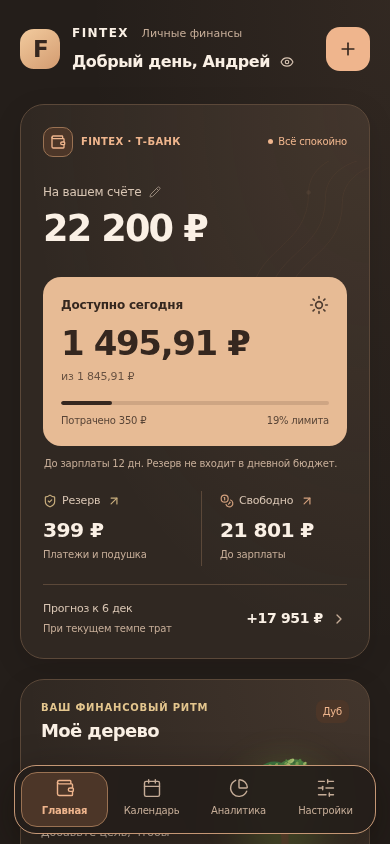
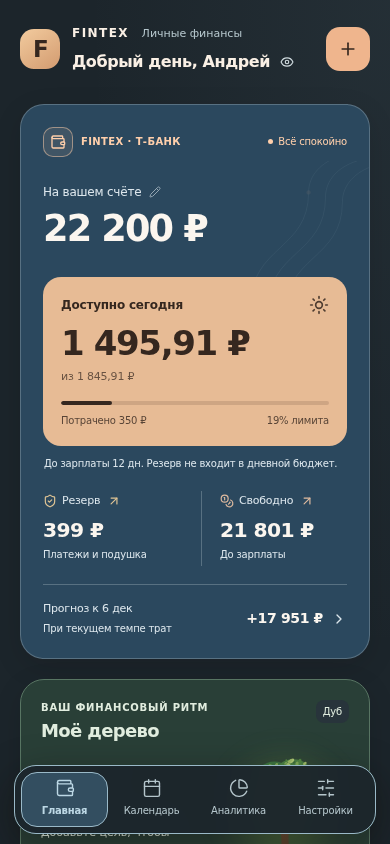
Rework Warm Growth into a balanced blue apricot sage palette

diff --git a/design-system.css b/design-system.css
@@ -865,16 +865,25 @@ body #filely-financial-tree .ft-kicker { font-weight: 700; text-transform: upper
 html[data-visual-style='growth'] {
   --bg-canvas: #faf5ed;
   --surface-1: #fffcf7;
-  --surface-2: #f0e5d7;
-  --surface-raised: #e9dac8;
-  --border-subtle: #dfcebb;
-  --border-active: #a46c45;
+  --surface-2: #e8edf0;
+  --surface-raised: #dce5e9;
+  --border-subtle: #d6dcd8;
+  --border-active: #57768a;
   --text-primary: #332c29;
   --text-secondary: #6f5e53;
   --text-muted: #78675b;
   --accent: #985021;
   --accent-rgb: 152,80,33;
   --accent-2: #985021;
+  --hero-bg: #31526b;
+  --hero-ink: #fbf6ef;
+  --hero-secondary: #dce6ec;
+  --cool: #31526b;
+  --cool-soft: #e1eaf0;
+  --sage-bg: #e5ecdf;
+  --sage-ink: #354c40;
+  --sage-border: #b4c8b5;
+  --progress: #54745d;
   --accent-soft: #f5e2d1;
   --accent-ink: #ffffff;
   --gold: #87601f;
@@ -885,28 +894,37 @@ html[data-visual-style='growth'] {
   --companion-ink: #56351f;
   --tabbar-bg: rgba(250,245,237,.97);
   --surface-wash: linear-gradient(145deg, rgba(233,176,137,.1), transparent 70%);
-  --hero-wash: radial-gradient(ellipse at 100% 0%, rgba(233,176,137,.22), transparent 70%);
-  --canvas-wash: radial-gradient(ellipse at 100% 0%, rgba(233,176,137,.12), transparent 55%);
+  --hero-wash: none;
+  --canvas-wash: radial-gradient(ellipse at 100% 0%, rgba(132,163,179,.13), transparent 55%);
   --budget-bg: #f2d7bd;
   --budget-ink: #493326;
-  --budget-empty-bg: #f0e5d7;
+  --budget-empty-bg: #e1eaf0;
   --number-ink: #332c29;
   --shadow-card: 0 8px 28px rgba(79,49,29,.04);
   --shadow-float: 0 12px 40px rgba(79,49,29,.14);
 }
 html.dark[data-visual-style='growth'] {
-  --bg-canvas: #241e1a;
-  --surface-1: #302822;
-  --surface-2: #3c3129;
-  --surface-raised: #493b31;
-  --border-subtle: #5b4839;
-  --border-active: #c59775;
+  --bg-canvas: #1c252b;
+  --surface-1: #28343b;
+  --surface-2: #32424b;
+  --surface-raised: #3d515b;
+  --border-subtle: #4b6068;
+  --border-active: #9ab9c8;
   --text-primary: #faf0e5;
-  --text-secondary: #d8c5b3;
-  --text-muted: #c6ad98;
+  --text-secondary: #d1dce0;
+  --text-muted: #b5c6cc;
   --accent: #efb58d;
   --accent-rgb: 239,181,141;
   --accent-2: #efb58d;
+  --hero-bg: #2b485e;
+  --hero-ink: #fbf6ef;
+  --hero-secondary: #dce6ec;
+  --cool: #bdd8e5;
+  --cool-soft: #334e60;
+  --sage-bg: #293f37;
+  --sage-ink: #e1eddf;
+  --sage-border: #587563;
+  --progress: #abc6a9;
   --accent-soft: #4c3628;
   --accent-ink: #35271f;
   --gold: #e4c68e;
@@ -915,33 +933,61 @@ html.dark[data-visual-style='growth'] {
   --companion-soft: #4c3628;
   --companion-border: #9a7253;
   --companion-ink: #35271f;
-  --tabbar-bg: rgba(36,30,26,.97);
+  --tabbar-bg: rgba(28,37,43,.97);
   --surface-wash: linear-gradient(145deg, rgba(233,176,137,.04), transparent 70%);
-  --hero-wash: radial-gradient(ellipse at 100% 0%, rgba(233,176,137,.1), transparent 70%);
-  --canvas-wash: radial-gradient(ellipse at 100% 0%, rgba(233,176,137,.07), transparent 55%);
+  --hero-wash: none;
+  --canvas-wash: radial-gradient(ellipse at 100% 0%, rgba(132,163,179,.08), transparent 55%);
   --budget-bg: #e7bb95;
   --budget-ink: #35271f;
-  --budget-empty-bg: #3c3129;
+  --budget-empty-bg: #e1eaf0;
   --number-ink: #faf0e5;
   --shadow-card: 0 8px 28px rgba(16,10,6,.12);
   --shadow-float: 0 12px 40px rgba(16,10,6,.38);
 }
+/* Independent colour roles, not a tint applied to the entire interface. */
+html[data-visual-style='growth'] body #hero-balance-card {
+  background: var(--hero-bg);
+  --text-primary: var(--hero-ink);
+  --number-ink: var(--hero-ink);
+  --text-secondary: var(--hero-secondary);
+  --text-muted: var(--hero-secondary);
+  --border-subtle: rgba(220,230,236,.26);
+  --accent: #ffcfab;
+  --companion: #ffcfab;
+  --companion-soft: rgba(255,207,171,.1);
+  --companion-border: rgba(255,207,171,.5);
+  --gold: #ffda9e;
+  --danger: #ffb4ad;
+}
+html[data-visual-style='growth'] body #filely-financial-tree {
+  background: var(--sage-bg);
+  border-color: var(--sage-border);
+  --text-primary: var(--sage-ink);
+  --text-secondary: var(--sage-ink);
+  --border-subtle: var(--sage-border);
+  --gold: var(--sage-ink);
+}
+html[data-visual-style='growth'] body #filely-financial-tree .ft-stage { background: var(--surface-1); color: var(--sage-ink); }
+html[data-visual-style='growth'] body #filely-financial-tree .ft-bar > span { background: var(--progress); }
+html[data-visual-style='growth'] body #filely-financial-tree .ft-bar { background: var(--sage-border); }
+html[data-visual-style='growth'] body .section-icon:not(.companion-icon) { background: var(--cool-soft); color: var(--cool); }
+html[data-visual-style='growth'] body .work-header { background: var(--cool-soft); }
+html[data-visual-style='growth'] body .ftx-ap-section-title { color: var(--cool); }
 html[data-visual-style='growth'] body #hero-balance-card::before { background-image: url('./assets/growth-arcs.svg'); opacity: .18; }
-html[data-visual-style='growth'] body #nav-active-pill { background: var(--accent-soft); border: 1px solid var(--companion-border); box-shadow: none; }
-html[data-visual-style='growth'] body .nav-tab.is-active-tab { color: var(--accent); }
+html[data-visual-style='growth'] body #nav-active-pill { background: var(--cool-soft); border: 1px solid var(--border-active); box-shadow: none; }
+html[data-visual-style='growth'] body .nav-tab.is-active-tab { color: var(--cool); }
 html[data-visual-style='growth'] body .daily-budget { background: var(--budget-bg); }
-html[data-visual-style='growth'] body .daily-budget[data-exhausted='true'] { background: var(--budget-empty-bg); }
+html[data-visual-style='growth'] body .daily-budget[data-exhausted='true'] { background: var(--budget-empty-bg); color: #314959; --text-primary: #314959; }
 html[data-visual-style='growth'] body .daily-budget-icon { color: var(--budget-ink); }
 html[data-visual-style='growth'] body .daily-budget[data-exhausted='true'] .daily-budget-icon { color: var(--text-primary); }
 html[data-visual-style='growth'] body .daily-budget-track { background: rgba(73,51,38,.16); }
-html[data-visual-style='growth'] body #filely-financial-tree .ft-bar > span { background: var(--accent); }
 html[data-visual-style='growth'] body :is(#hero-balance, #hero-reserved, #hero-free-pool, #st-balance, #work-result, #cb-work-time) { color: var(--number-ink); }
 html[data-visual-style='growth'] body .sprout-light { background: radial-gradient(ellipse at 53% 40%, rgba(233,176,137,.15), transparent 54%); }
 html[data-visual-style='growth'] body .work-dialog::backdrop { background: rgba(36,30,26,.78); }
-body .swatch-growth { background: #faf5ed; border: 1px solid #dfcebb; }
-body .swatch-growth i { background: #e9b089; }
-body .swatch-growth i:first-child { background: #493326; }
-body .swatch-growth i:last-child { background: #d3b99d; }
+body .swatch-growth { background: #faf5ed; border: 1px solid #d6dcd8; grid-template-columns: 1fr 1fr; gap: 5px; }
+body .swatch-growth i { background: #e9b089; width: 100%; height: 100%; }
+body .swatch-growth i:first-child { background: #31526b; grid-column: 1 / -1; width: 100%; height: 24px; }
+body .swatch-growth i:last-child { background: #a8bda0; width: 100%; height: 100%; }
 body .visual-style-options > [data-visual-style-choice='growth'] { grid-column: 1 / -1; display: grid; grid-template-columns: 82px minmax(0,1fr); gap: 10px; align-items: center; }
 body [data-visual-style-choice='growth'] .visual-style-swatch { height: 70px; }
 body [data-visual-style-choice='growth'] .visual-style-check { right: 12px; bottom: auto; top: 10px; }

diff --git a/index.html b/index.html
@@ -13,10 +13,10 @@
   <script src="https://cdnjs.cloudflare.com/ajax/libs/pdf.js/3.11.174/pdf.min.js"></script>
   <meta name="theme-color" content="#061C12" />
   <meta name="color-scheme" content="dark light" />
-  <script src="./appearance.js?v=40"></script>
+  <script src="./appearance.js?v=41"></script>
   <script src="./cloud.js?v=39"></script>
   <link rel="stylesheet" href="./styles.css?v=22" />
-  <link rel="stylesheet" href="./design-system.css?v=40" />
+  <link rel="stylesheet" href="./design-system.css?v=41" />
 </head>
 <body class="max-w-md mx-auto min-h-screen relative select-none">
 
@@ -889,7 +889,7 @@
           <div class="visual-style-options" role="group" aria-label="Стиль оформления">
             <button type="button" data-visual-style-choice="forest" aria-pressed="true" onclick="setVisualStyle('forest')"><span class="visual-style-swatch swatch-forest" aria-hidden="true"><i></i><i></i><i></i></span><strong>Лес</strong><small>Листва и тёплый свет</small><span class="visual-style-check" aria-hidden="true">✓</span></button>
             <button type="button" data-visual-style-choice="sapphire" aria-pressed="false" onclick="setVisualStyle('sapphire')"><span class="visual-style-swatch swatch-sapphire" aria-hidden="true"><i></i><i></i><i></i></span><strong>Сапфир</strong><small>Белый, голубой и синий</small><span class="visual-style-check" aria-hidden="true">✓</span></button>
-            <button type="button" data-visual-style-choice="growth" aria-pressed="false" onclick="setVisualStyle('growth')"><span class="visual-style-swatch swatch-growth" aria-hidden="true"><i></i><i></i><i></i></span><span class="visual-style-description"><strong>Тёплый рост</strong><small>Кремовый и абрикосовый · в своём темпе</small></span><span class="visual-style-check" aria-hidden="true">✓</span></button>
+            <button type="button" data-visual-style-choice="growth" aria-pressed="false" onclick="setVisualStyle('growth')"><span class="visual-style-swatch swatch-growth" aria-hidden="true"><i></i><i></i><i></i></span><span class="visual-style-description"><strong>Тёплый рост</strong><small>Синий, абрикос и шалфей · на кремовом</small></span><span class="visual-style-check" aria-hidden="true">✓</span></button>
           </div>
         </fieldset>
         <p class="appearance-philosophy">Выберите, где вам уютнее. Стиль меняет оформление, но не оценки, расчёты и цвета доходов и расходов.</p>

diff --git a/appearance.js b/appearance.js
@@ -9,7 +9,7 @@
   const backgrounds = {
     forest: {dark: '#061C12', light: '#F4F5E8'},
     sapphire: {dark: '#153073', light: '#F6F6F6'},
-    growth: {dark: '#241E1A', light: '#FAF5ED'}
+    growth: {dark: '#1C252B', light: '#FAF5ED'}
   };
   const read = (key, fallback, allowed) => {
     try { const value = localStorage.getItem(key); return allowed.includes(value) ? value : (key === 'fp_visual_style' && value === 'lagoon' ? 'sapphire' : fallback); }

diff --git a/docs/warm-growth-design.md b/docs/warm-growth-design.md
@@ -4,9 +4,10 @@
 
 ## Принципы
 
-- Кремовые поверхности и приглушённые абрикосовые акценты — намерение создать тёплый характер, а не обещание конкретного психологического эффекта.
+- Не монохромная перекраска: кремовый холст, пыльно-синяя карточка счёта, абрикосовый бюджет и действия, шалфейная карточка роста. У каждого цвета своя роль; тёмный режим использует сине-графитовую основу, а не коричневую заливку.
+- Сочетание тёплых и холодных цветов — визуальная концепция, а не обещание конкретного психологического эффекта.
 - Предсказуемое расположение и прежняя иерархия: счёт → доступно сегодня → резерв → прогресс. Не нужно заново изучать приложение.
-- Основные суммы нейтральные: тёмные в светлой теме, молочные в тёмной. Тёплый акцент выделяет действия, а не оценивает человека или траты.
+- Основные суммы нейтральные: молочные на синей карточке, графитовые на светлых поверхностях. Тёплый акцент выделяет действия, а не оценивает человека или траты.
 - Прогресс без новых серий, рейтингов, конфетти, навязчивых напоминаний и наказаний за пропуски. Анимации остаются под контролем существующей настройки.
 - Предупреждения не скрыты и не переименованы в позитивные сообщения. Цвета доходов, расходов и риска не меняются.
 
@@ -16,7 +17,7 @@
 
 - CSS-токены всех основных поверхностей, текста, кнопок, бюджета, навигации и сопутствующих элементов в обеих темах.
 - Лёгкие SVG-линии вместо лесного декора на карточке счёта. Дерево как финансовый модуль остаётся прежним.
-- Контраст основных токенов текста/фона и кнопок не ниже 4.5:1 по автоматической проверке (не заменяет полный аудит доступности).
+- Контраст основных токенов текста/фона, кнопок, синей карточки, шалфейной карточки и предупреждений на синем фоне не ниже 4.5:1 по автоматической проверке (не заменяет полный аудит доступности).
 - 320/390/448 px, основные вкладки, клавиатурный выбор, сохранение стиля и неизменность финансовых записей.
 - Статические скриншоты с тестовыми данными: `growth-light-preview.png`, `growth-dark-preview.png`.
 

diff --git a/README.md b/README.md
@@ -214,4 +214,4 @@ npm run test:ui
 
 ### Тёплый рост — третий стиль
 
-Настройки → Внешний вид → Стиль → **Тёплый рост**. Кремовые поверхности и абрикосовые акценты доступны в светлом, тёмном и автоматическом режимах. Лес и Сапфир сохраняются. Оформление не меняет суммы, финансовые оценки и смысловые цвета. [Принципы и проверки](docs/warm-growth-design.md).
+Настройки → Внешний вид → Стиль → **Тёплый рост**. Кремовый фон, пыльно-синие карточки, абрикосовые действия и шалфейный прогресс доступны в светлом, тёмном и автоматическом режимах. Лес и Сапфир сохраняются. Оформление не меняет суммы, финансовые оценки и смысловые цвета. [Принципы и проверки](docs/warm-growth-design.md).
